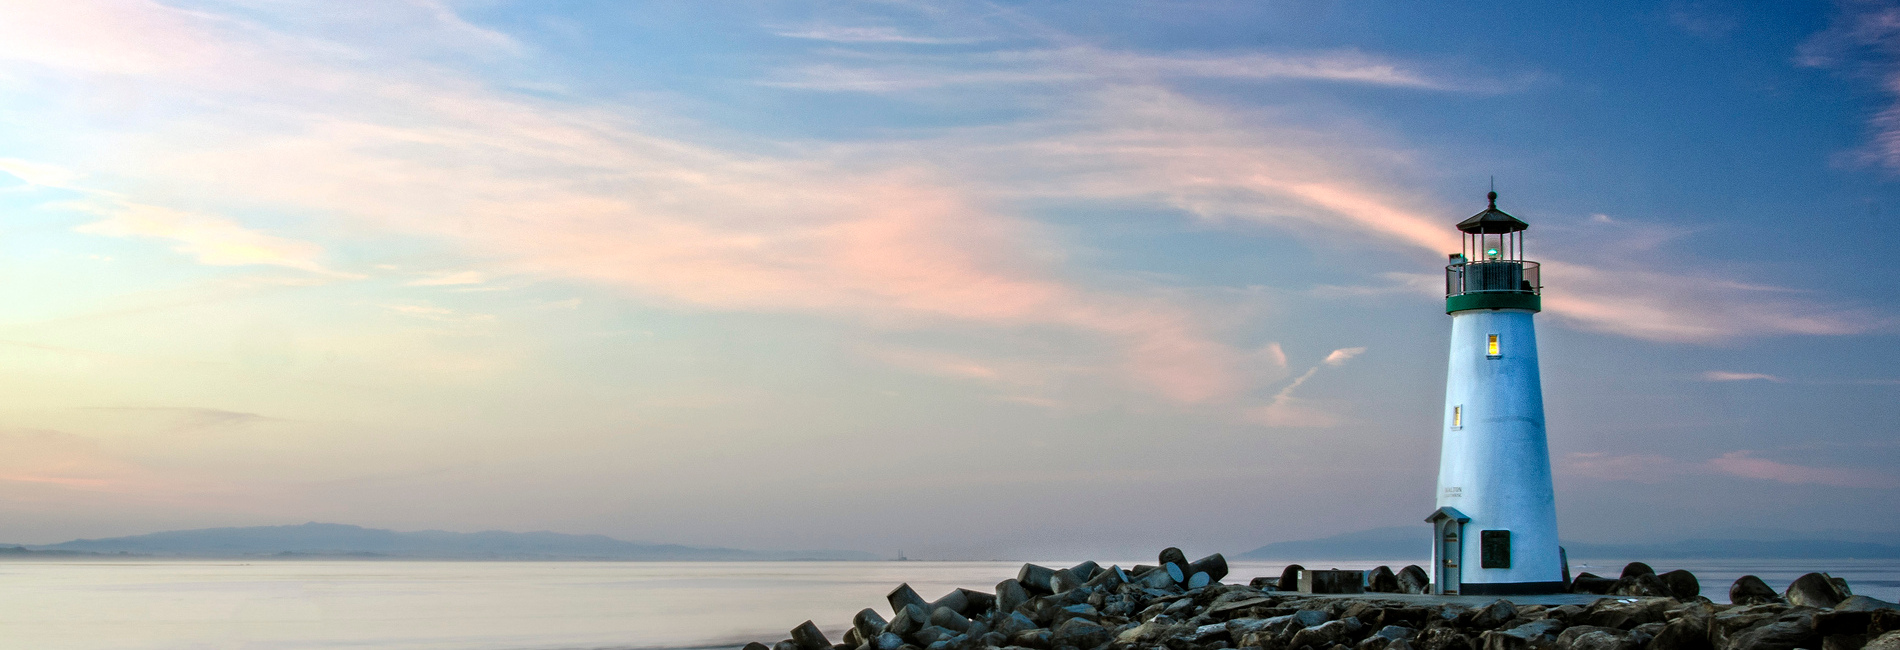
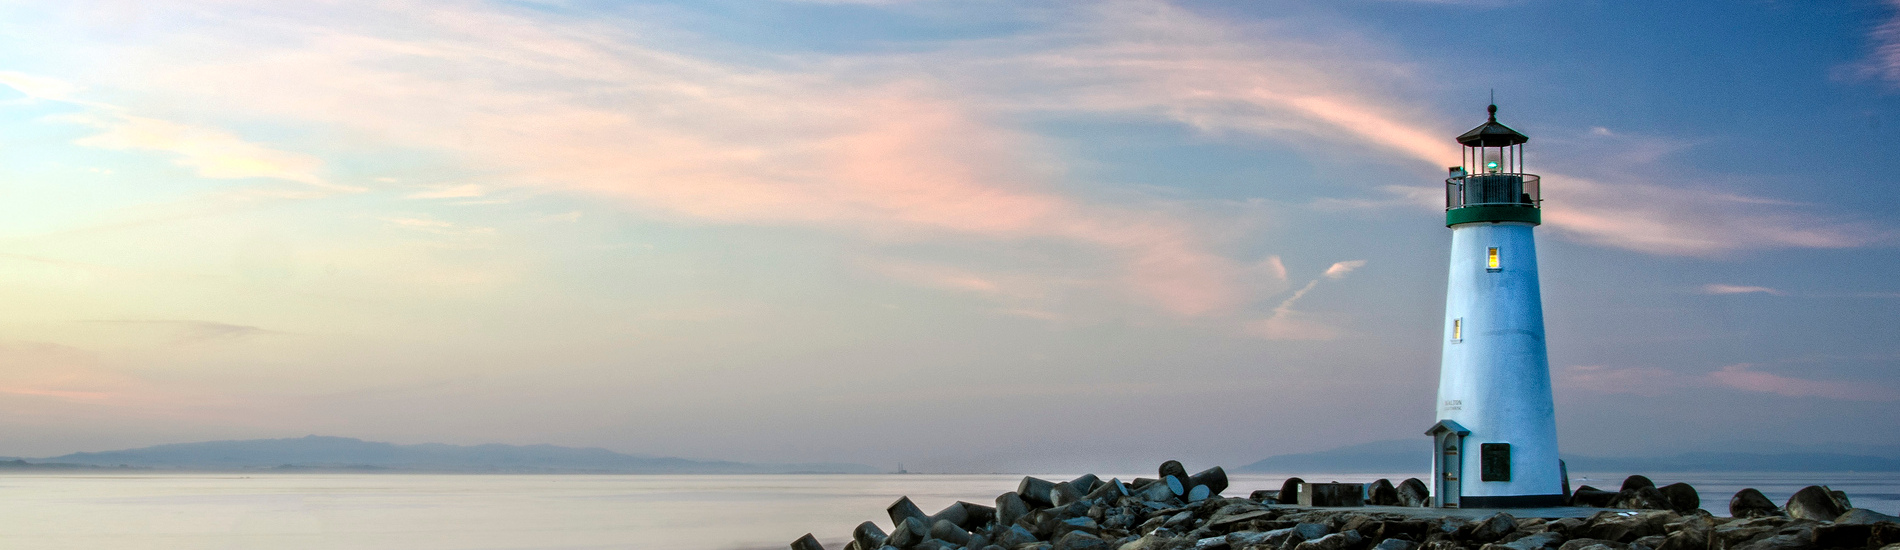
refactor: Changes minor stylings
This commit includes minor styling changes.
Title images will be cut down in its height since the title image
looks a bit big. Also, thin horizontal line will be added to separate
main and footer block.

diff --git a/index.html b/index.html
@@ -26,7 +26,7 @@
           </div>
           <div class="col-md-6 text-right text-uppercase">
             <h1 class="title-super text-thin">Yoko Harada</h1>
-            <h4>Full-Stack Web Developer</h4>
+            <h4>Full Stack Web Developer</h4>
           </div>
         </div>
         <div class="row">
@@ -73,6 +73,11 @@
         </section>
       </main>
       <footer>
+        <div class="row">
+          <div class="col-md-12">
+            <hr class="thin-line">
+          </div>
+        </div>
         <section clsas="row">
           <div class="col-md-12 credits">
             <span class="text-muted">Photo Credits: </span>

diff --git a/css/style.css b/css/style.css
@@ -10,6 +10,11 @@ hr {
   color: #7d97ad;
   background-color: #7d97ad;
 }
+
+.thin-line {
+  height: 1px;
+}
+
 .text-muted {
   color: #7d97ad;
 }
